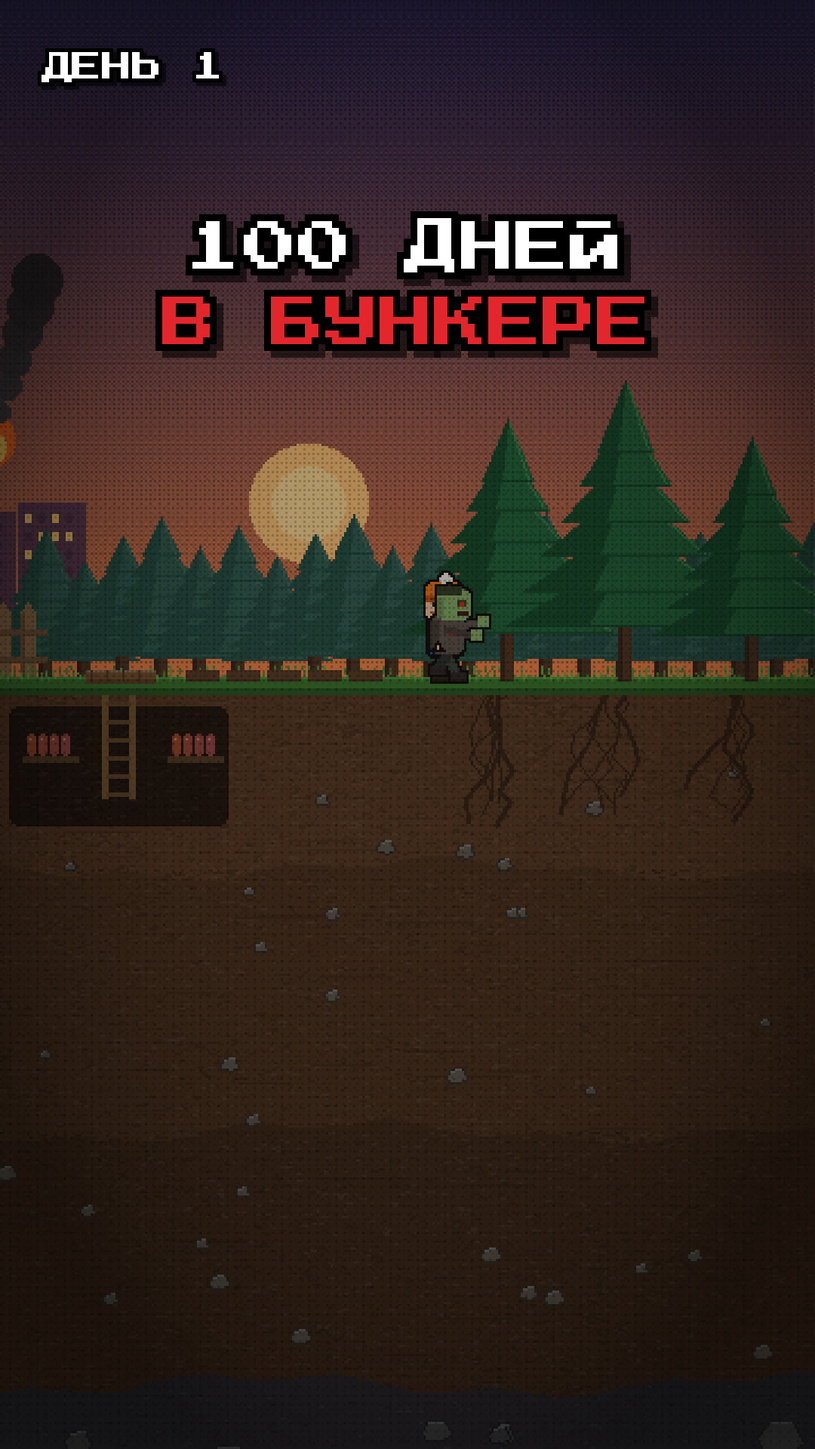
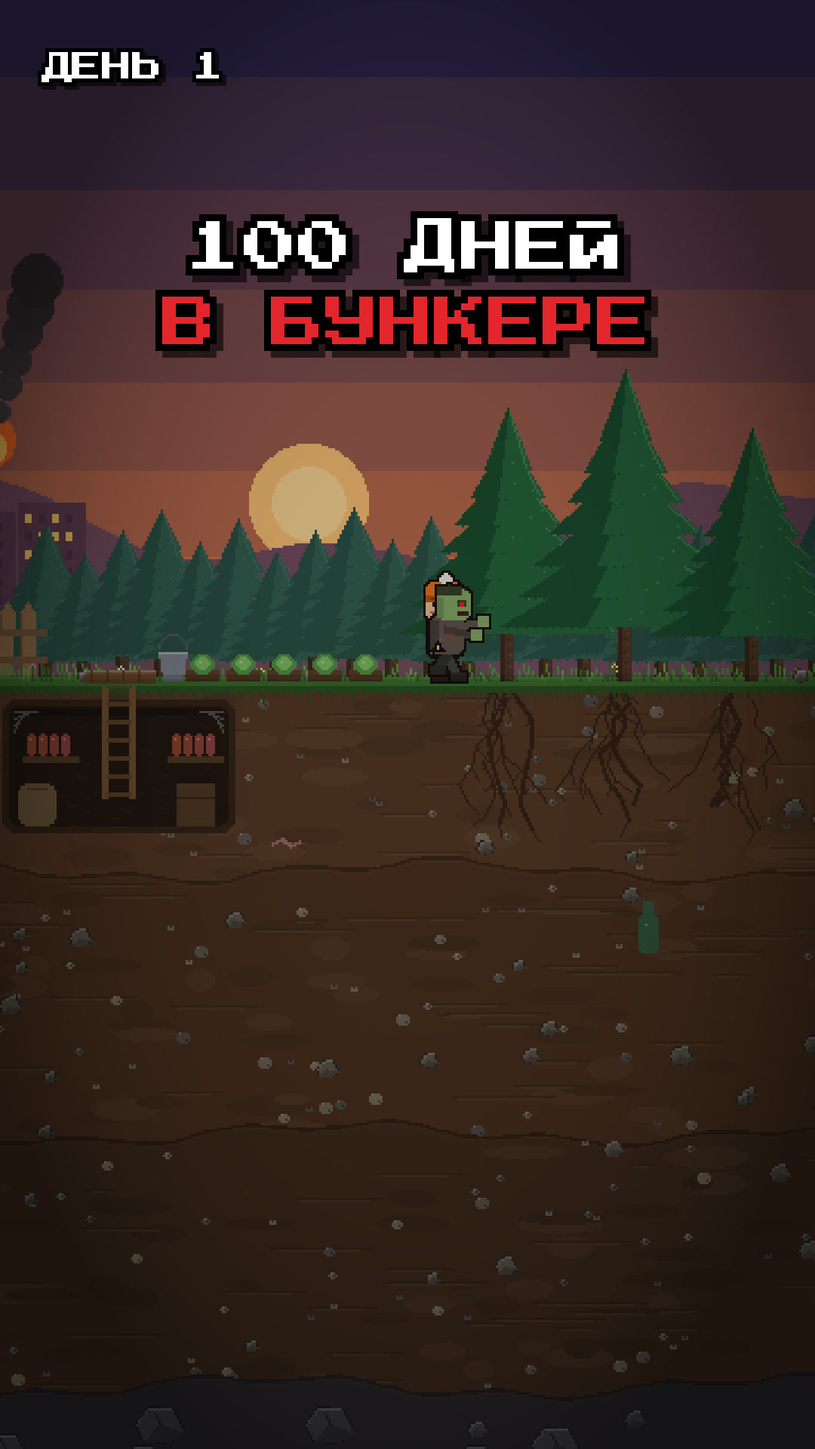
Zombi bunker: detail pass (soil, rooms, props, house, sky)
Claude-Session: https://claude.ai/code/session_012AJnV3FoB4MYQ4cLJ3yctW

diff --git a/tiktok/zombi/bunker/scene.py b/tiktok/zombi/bunker/scene.py
@@ -204,23 +204,34 @@ def noise_dots(d, box, cols, n, seed, size=1):
 
 def pine(d, x, base, h, col=(40, 104, 62), dark=(28, 80, 48), light=(66, 136, 80), snow=False):
     d.rectangle([x - 3, base - h // 3, x + 2, base], fill=(84, 58, 40))
-    d.rectangle([x - 3, base - h // 3, x - 2, base], fill=(64, 44, 30))
-    tiers = 6
+    d.rectangle([x - 3, base - h // 3, x - 2, base], fill=(62, 42, 28))
+    for yy in range(base - h // 3 + 3, base, 5):                         # кора
+        d.point((x, yy), fill=(64, 44, 30)); d.point((x + 1, yy + 2), fill=(104, 74, 50))
+    tiers = 7
     for i in range(tiers):
-        ty = base - h // 5 - i * h // 8
-        w = (tiers - i) * h // 15 + 4
+        ty = base - h // 5 - i * h // 9
+        w = (tiers - i) * h // 17 + 4
         th = h // 4
         d.polygon([(x, ty - th), (x - w, ty), (x + w, ty)], fill=col)
         d.polygon([(x, ty - th), (x - w, ty), (x - w // 3, ty)], fill=dark)
         d.line([(x + 1, ty - th + 2), (x + w - 2, ty - 1)], fill=light)
-        d.line([(x - w + 1, ty), (x + w - 1, ty)], fill=dark)
+        for k in range(-w + 3, w - 2, 4):                              # зубчатый низ яруса
+            d.point((x + k, ty + 1), fill=dark if k < 0 else col)
+        for k in range(2):                                             # блики хвои
+            px = x + 2 + (i * 7 + k * 5) % max(3, w - 3)
+            d.point((px, ty - 3 - k * 3), fill=light)
 
 
 def rock(d, x, y, s, base=(92, 88, 96)):
     pts = [(x, y + s * 0.4), (x + s * 0.3, y), (x + s * 0.8, y + s * 0.05), (x + s, y + s * 0.5),
            (x + s * 0.7, y + s * 0.75), (x + s * 0.2, y + s * 0.72)]
-    d.polygon(pts, fill=base, outline=lerp(base, (0, 0, 0), 0.45))
-    d.line([(x + s * 0.3, y + 1), (x + s * 0.75, y + s * 0.08)], fill=lerp(base, (255, 255, 255), 0.25))
+    d.polygon(pts, fill=base, outline=lerp(base, (0, 0, 0), 0.5))
+    d.polygon([(x + s * 0.5, y + s * 0.4), (x + s, y + s * 0.5), (x + s * 0.7, y + s * 0.75),
+               (x + s * 0.25, y + s * 0.7)], fill=lerp(base, (0, 0, 0), 0.22))      # тень снизу-справа
+    d.line([(x + s * 0.3, y + 1), (x + s * 0.75, y + s * 0.08)], fill=lerp(base, (255, 255, 255), 0.3))
+    d.line([(x + 1, y + s * 0.4), (x + s * 0.3, y + 1)], fill=lerp(base, (255, 255, 255), 0.18))
+    if s > 12:
+        d.line([(x + s * 0.45, y + s * 0.15), (x + s * 0.55, y + s * 0.4)], fill=lerp(base, (0, 0, 0), 0.4))
 
 
 _ST = {}
@@ -235,28 +246,70 @@ def static_layer():
 def _static():
     im = Image.new("RGB", (BW, BH))
     d = ImageDraw.Draw(im)
-    layers = [(GY, (114, 76, 48)), (GY + 84, (100, 66, 42)), (GY + 200, (86, 58, 38)), (ROCK_Y, (62, 58, 64))]
+    layers = [(GY, (116, 78, 50)), (GY + 84, (102, 68, 44)), (GY + 200, (88, 60, 40)), (ROCK_Y, (62, 58, 64))]
     r = random.Random(7)
     for i, (y, c) in enumerate(layers):
         y1 = layers[i + 1][0] if i + 1 < len(layers) else BH
-        # волнистая граница слоя
-        pts = [(0, BH)] + [(x, y + 4 * math.sin(x / 37 + i) + 2 * math.sin(x / 11 + i * 2)) for x in range(0, BW + 6, 6)] + [(BW, BH)]
-        d.polygon(pts, fill=c)
-        noise_dots(d, (0, y, BW, y1 + 6), [lerp(c, (0, 0, 0), 0.1)], 500, i, size=4)   # редкие комочки, без «шума»
-        for _ in range(26):                   # горизонтальные прожилки
-            sx, sy = r.randrange(BW), r.randrange(y + 4, y1)
-            d.line([(sx, sy), (sx + r.randrange(10, 40), sy)], fill=lerp(c, (0, 0, 0), 0.12))
-    for _ in range(120):
-        rock(d, r.randrange(-8, BW), r.randrange(ROCK_Y + 6, BH), r.randrange(8, 22), (86 + r.randrange(14),) * 2 + (94,))
-    for _ in range(40):
-        rock(d, r.randrange(0, BW), r.randrange(GY + 40, ROCK_Y - 16), r.randrange(5, 10), (126, 114, 102))
-    for x in (400, 452, 504):                # корни под деревьями
-        for k in range(6):
+        line = [(x, y + 4 * math.sin(x / 37 + i) + 2 * math.sin(x / 11 + i * 2)) for x in range(0, BW + 6, 6)]
+        d.polygon([(0, BH)] + line + [(BW, BH)], fill=c)
+        if i:
+            d.line(line, fill=lerp(c, (0, 0, 0), 0.22), width=2)
+            d.line([(x, yy + 2) for x, yy in line], fill=lerp(layers[i - 1][1], c, 0.5))
+        if i < 3:
+            for _ in range(70):                       # комья земли чуть другого оттенка
+                x, yy = r.randrange(-20, BW), r.randrange(y + 6, y1)
+                w, h = r.randrange(12, 40), r.randrange(4, 10)
+                col = lerp(c, (0, 0, 0), 0.07) if r.random() < 0.6 else lerp(c, (255, 226, 190), 0.06)
+                d.ellipse([x, yy, x + w, yy + h], fill=col)
+            for _ in range(40):                       # тонкие пласты
+                sx, sy = r.randrange(BW), r.randrange(y + 6, y1)
+                ln = r.randrange(14, 54)
+                d.line([(sx, sy), (sx + ln, sy)], fill=lerp(c, (0, 0, 0), 0.13))
+                d.line([(sx + 3, sy + 1), (sx + ln - 6, sy + 1)], fill=lerp(c, (255, 255, 255), 0.07))
+            for _ in range(80):                       # камешки с бликом и тенью
+                x, yy = r.randrange(BW), r.randrange(y + 4, y1)
+                sz = r.choice((2, 2, 3, 3, 4, 5))
+                base = r.choice(((152, 138, 122), (128, 118, 108), (170, 150, 120), (110, 104, 100)))
+                d.ellipse([x, yy, x + sz, yy + sz * 0.8], fill=base)
+                d.point((x + 1, yy), fill=lerp(base, (255, 255, 255), 0.35))
+                d.point((x + sz - 1, yy + sz * 0.8 - 1), fill=lerp(base, (0, 0, 0), 0.4))
+    for _ in range(46):                               # крупные камни повыше
+        rock(d, r.randrange(0, BW), r.randrange(GY + 40, ROCK_Y - 16), r.randrange(6, 12), (128, 116, 104))
+    for _ in range(130):                              # валуны в скале
+        g = 84 + r.randrange(18)
+        rock(d, r.randrange(-8, BW), r.randrange(ROCK_Y + 6, BH), r.randrange(8, 24), (g, g - 2, g + 6))
+    for _ in range(14):                               # трещины в скале
+        x, yy = r.randrange(BW), r.randrange(ROCK_Y + 20, BH)
+        pts = [(x, yy)]
+        for _ in range(4):
+            x += r.randint(-6, 6); yy += r.randint(4, 9)
+            pts.append((x, yy))
+        d.line(pts, fill=(40, 38, 44))
+    for x in (400, 452, 504, 30, 90):                 # корни с мелкими отростками
+        for k in range(6 if x > 300 else 3):
             pts, px, py = [(x, GY)], x, GY
-            for _ in range(7):
+            for j in range(7):
                 px += r.randint(-7, 7); py += r.randint(5, 11)
                 pts.append((px, py))
+                if r.random() < 0.5:
+                    d.line([(px, py), (px + r.randint(-6, 6), py + r.randint(3, 7))], fill=(80, 54, 36))
             d.line(pts, fill=(74, 48, 32), width=2 if k < 2 else 1)
+    # закопанные мелочи: кость, бутылка, ржавая банка, червяк, окаменелость
+    d.line([(52, 540), (70, 534)], fill=(226, 218, 196), width=3)
+    for ex, ey in ((50, 539), (52, 543), (70, 532), (72, 536)):
+        d.ellipse([ex - 2, ey - 2, ex + 2, ey + 2], fill=(226, 218, 196))
+    d.rounded_rectangle([462, 404, 470, 420], 2, fill=(70, 120, 84)); d.rectangle([464, 398, 468, 404], fill=(70, 120, 84))
+    d.point((465, 408), fill=(150, 200, 160))
+    d.rectangle([30, 352, 40, 360], fill=(140, 82, 52)); d.line([(30, 352), (40, 352)], fill=(176, 120, 80))
+    d.line([(300, 372), (304, 370), (308, 373), (312, 371)], fill=(214, 140, 140), width=2)
+    for k in range(18):                               # аммонит
+        a = k * 0.55
+        rr = 1 + k * 0.45
+        d.point((440 + rr * math.cos(a), 720 + rr * math.sin(a)), fill=(150, 144, 136))
+    d.rectangle([0, GY, BW, GY + 2], fill=(80, 146, 60))
+    d.rectangle([0, GY + 3, BW, GY + 5], fill=(58, 110, 46))
+    for x in range(0, BW, 5):                         # дёрн свисает
+        d.line([(x, GY + 5), (x + 1, GY + 7 + (x * 13) % 4)], fill=(70, 92, 44))
     return im
 
 
@@ -287,17 +340,26 @@ def sky(d, kind, t):
         d.ellipse([414, 62, 438, 86], fill=(255, 250, 220))
         for i, (cx, cy, w) in enumerate(((80, 104, 70), (300, 66, 52), (220, 140, 44), (480, 150, 60))):
             x = (cx + t * (3 + i * 1.3)) % (BW + 120) - 60
-            col, sh = (242, 246, 250), (210, 222, 236)
+            col, sh, hl = (238, 243, 248), (196, 210, 228), (255, 255, 255)
             d.ellipse([x, cy, x + w, cy + 16], fill=sh)
             d.ellipse([x + w * 0.2, cy - 10, x + w * 0.65, cy + 12], fill=col)
             d.ellipse([x + w * 0.45, cy - 6, x + w * 0.85, cy + 10], fill=col)
-            d.rectangle([x + 4, cy + 8, x + w - 4, cy + 14], fill=sh)
+            d.rectangle([x + 4, cy + 9, x + w - 4, cy + 15], fill=sh)
+            d.arc([x + w * 0.2, cy - 10, x + w * 0.65, cy + 12], 200, 300, fill=hl)
+        for i in range(3):                                              # птицы
+            bx = (60 + i * 26 + t * 14) % (BW + 80) - 40
+            by = 120 + i * 9 + 3 * math.sin(t * 2 + i)
+            wing = 2 if (t * 4 + i) % 1 < 0.5 else -1
+            d.line([(bx - 3, by - wing), (bx, by), (bx + 3, by - wing)], fill=(50, 56, 70))
     else:
         d.ellipse([290, 196, 342, 248], fill=(255, 196, 120))
         d.ellipse([300, 206, 332, 238], fill=(255, 218, 150))
 
 
 def city(d, kind, burning, t):
+    hill = {"day": (150, 176, 196), "night": (20, 26, 46), "evening": (120, 80, 100)}[kind]
+    pts = [(0, GY)] + [(x, GY - 70 - 18 * math.sin(x / 70) - 8 * math.sin(x / 23)) for x in range(0, BW + 10, 10)] + [(BW, GY)]
+    d.polygon(pts, fill=hill)                                           # холмы вдали
     col = {"day": (138, 158, 182), "night": (24, 28, 48), "evening": (100, 64, 86)}[kind]
     r = random.Random(11)
     x = 0
@@ -330,37 +392,71 @@ def city(d, kind, burning, t):
 def house(d, kind):
     wall, roof = (132, 94, 62), (100, 54, 46)
     d.rectangle([8, 224, 124, GY], fill=wall)
-    for y in range(226, GY, 7):
-        d.line([(8, y), (124, y)], fill=(108, 76, 50))
-    d.rectangle([92, 176, 104, 210], fill=(110, 70, 56)); d.rectangle([90, 172, 106, 177], fill=(80, 50, 40))
+    for j, y in enumerate(range(226, GY, 7)):                           # доски обшивки
+        d.line([(8, y), (124, y)], fill=(104, 74, 50))
+        d.line([(8, y + 1), (124, y + 1)], fill=(150, 110, 74))
+        for x in range(14 + (j % 3) * 9, 124, 31):
+            d.point((x, y + 3), fill=(96, 68, 44))
+    d.rectangle([8, 224, 12, GY], fill=(112, 80, 54)); d.rectangle([120, 224, 124, GY], fill=(112, 80, 54))
+    d.rectangle([8, 224, 124, 229], fill=(70, 50, 36))                   # тень под крышей
+    d.rectangle([92, 176, 104, 212], fill=(120, 72, 58))                 # кирпичная труба
+    for y in range(178, 212, 4):
+        d.line([(92, y), (104, y)], fill=(90, 54, 44))
+        d.point((96 + (y // 4 % 2) * 4, y + 2), fill=(90, 54, 44))
+    d.rectangle([90, 172, 106, 177], fill=(80, 50, 40))
     d.polygon([(0, 228), (66, 176), (132, 228)], fill=roof)
-    for k in range(5):
-        y = 188 + k * 9
+    for k in range(7):                                                   # черепица рядами
+        y = 184 + k * 6
         hw = (y - 176) * 66 / 52
-        d.line([(66 - hw, y), (66 + hw, y)], fill=(80, 42, 36))
-    d.polygon([(80, 192), (102, 212), (88, 212)], fill=(30, 22, 26))         # дыра в крыше
+        d.line([(66 - hw, y), (66 + hw, y)], fill=(78, 40, 34))
+        for x in range(int(66 - hw) + (k % 2) * 4, int(66 + hw), 8):
+            d.line([(x, y - 5), (x, y)], fill=(86, 46, 38))
+            d.point((x + 2, y - 4), fill=(126, 72, 60))
+    d.line([(0, 228), (66, 176), (132, 228)], fill=(140, 84, 66), width=2)
+    for mx, my in ((24, 216), (30, 214), (100, 214), (44, 204)):         # мох
+        d.ellipse([mx, my, mx + 6, my + 3], fill=(84, 112, 58))
+    d.polygon([(80, 192), (102, 212), (88, 212)], fill=(30, 22, 26))      # дыра в крыше
+    d.line([(84, 196), (96, 214)], fill=(110, 74, 50), width=2)
     win = (255, 210, 120) if kind == "evening" else (44, 54, 66)
-    d.rectangle([22, 242, 48, 268], fill=(84, 60, 40)); d.rectangle([25, 245, 45, 265], fill=win)
-    d.line([(25, 245), (45, 265)], fill=(84, 60, 40), width=2); d.line([(45, 245), (25, 265)], fill=(84, 60, 40), width=2)
-    d.rectangle([74, 250, 100, GY], fill=(72, 48, 34)); d.rectangle([94, 274, 96, 276], fill=(200, 170, 80))
-    for i, x in enumerate(range(134, 200, 11)):                              # забор
+    d.rectangle([20, 240, 50, 270], fill=(84, 60, 40)); d.rectangle([24, 244, 46, 266], fill=win)
+    d.line([(35, 244), (35, 266)], fill=(84, 60, 40)); d.line([(24, 255), (46, 255)], fill=(84, 60, 40))
+    if kind != "evening":
+        d.line([(26, 246), (32, 252)], fill=(90, 110, 130))
+    d.rectangle([12, 240, 19, 270], fill=(70, 96, 70))                   # ставня
+    d.polygon([(51, 242), (58, 246), (58, 276), (51, 272)], fill=(70, 96, 70))   # покосившаяся ставня
+    for x0, y0, x1, y1 in ((22, 250, 48, 256), (22, 258, 48, 262)):      # заколочено
+        d.line([(x0, y0), (x1, y1)], fill=(150, 110, 70), width=2)
+    d.rectangle([72, 246, 102, GY], fill=(58, 40, 28))
+    d.rectangle([75, 250, 99, GY], fill=(78, 52, 36))
+    for x in range(75, 99, 6):
+        d.line([(x, 250), (x, GY)], fill=(64, 42, 30))
+    d.rectangle([94, 274, 96, 277], fill=(200, 170, 80))
+    d.rectangle([68, GY - 4, 106, GY], fill=(110, 80, 54)); d.line([(68, GY - 4), (106, GY - 4)], fill=(140, 104, 70))
+    d.rounded_rectangle([110, 278, 124, GY], 2, fill=(96, 70, 48))      # бочка
+    d.line([(110, 284), (124, 284)], fill=(60, 60, 64)); d.line([(110, 294), (124, 294)], fill=(60, 60, 64))
+    for i, x in enumerate(range(134, 200, 11)):                          # забор
         h = 30 if i != 3 else 18
-        d.rectangle([x, GY - h, x + 6, GY], fill=(152, 114, 76))
-        d.rectangle([x, GY - h, x + 1, GY], fill=(124, 92, 60))
-        d.polygon([(x, GY - h), (x + 3, GY - h - 4), (x + 6, GY - h)], fill=(152, 114, 76))
+        lean = 2 if i == 4 else 0
+        d.polygon([(x, GY), (x + lean, GY - h), (x + 6 + lean, GY - h), (x + 6, GY)], fill=(152, 114, 76))
+        d.line([(x, GY), (x + lean, GY - h)], fill=(118, 88, 58))
+        d.polygon([(x + lean, GY - h), (x + 3 + lean, GY - h - 4), (x + 6 + lean, GY - h)], fill=(152, 114, 76))
+        d.point((x + 3, GY - h + 8), fill=(80, 60, 40))
     d.rectangle([130, GY - 22, 200, GY - 20], fill=(124, 90, 60))
     d.rectangle([130, GY - 10, 200, GY - 8], fill=(124, 90, 60))
 
 
 def grass(d, kind, t, x0=0, x1=BW):
-    g1, g2 = (78, 146, 60), (56, 112, 46)
-    d.rectangle([x0, GY - 1, x1, GY + 3], fill=g1)
-    d.rectangle([x0, GY + 4, x1, GY + 6], fill=g2)
+    g1, g2 = (80, 148, 60), (58, 112, 46)
+    d.rectangle([x0, GY - 1, x1, GY + 2], fill=g1)
     r = random.Random(21)
-    for x in range(x0, x1, 3):
-        h = r.randrange(2, 7)
+    for x in range(x0, x1, 2):
+        h = r.randrange(2, 8)
         sw = math.sin(t * 1.5 + x * 0.07) * 1.2
-        d.line([(x, GY), (x + sw, GY - h)], fill=g1 if r.random() < 0.6 else (100, 170, 70))
+        col = g1 if r.random() < 0.5 else (104, 172, 72) if r.random() < 0.5 else g2
+        d.line([(x, GY), (x + sw, GY - h)], fill=col)
+        if r.random() < 0.025:                                          # цветы
+            fc = r.choice(((240, 220, 90), (236, 236, 236), (200, 120, 200)))
+            d.point([(x + sw, GY - h - 1), (x + sw - 1, GY - h), (x + sw + 1, GY - h)], fill=fc)
 
 
 def room(d, box, finished, depth=1.0, side="right", seed=0):
@@ -371,24 +467,38 @@ def room(d, box, finished, depth=1.0, side="right", seed=0):
         x1 = x0 + int((x1 - x0) * min(1, depth))
     elif side == "down":
         y1 = y0 + int((y1 - y0) * min(1, depth))
+    d.rounded_rectangle([x0 - 3, y0 - 3, x1 + 3, y1 + 3], 6, fill=(74, 50, 34))      # тень вокруг выемки
     d.rounded_rectangle([x0, y0, x1, y1], 4, fill=(48, 33, 25))
-    noise_dots(d, (x0 + 2, y0 + 2, x1 - 1, y1 - 1), [(54, 38, 29)],
-               (x1 - x0) * (y1 - y0) // 90, seed, size=3)
+    r = random.Random(seed)
+    for _ in range((x1 - x0) * (y1 - y0) // 160):                       # следы лопаты на стенах
+        x, y = r.randrange(x0 + 2, max(x0 + 3, x1 - 6)), r.randrange(y0 + 2, max(y0 + 3, y1 - 3))
+        d.line([(x, y), (x + 4, y + 1)], fill=(58, 41, 31))
+    d.rectangle([x0 + 2, y0 + 1, x1 - 2, y0 + 3], fill=(38, 26, 20))
     if finished:
         for i, x in enumerate(range(x0 + 2, x1 - 4, 10)):
-            sh = (118, 84, 54) if i % 3 else (110, 78, 50)
+            sh = ((118, 84, 54), (110, 78, 50), (124, 90, 58))[(i * 7 + seed) % 3]
             d.rectangle([x, y0 + 6, x + 9, y1 - 6], fill=sh)
-            d.line([(x, y0 + 6), (x, y1 - 6)], fill=(82, 56, 36))
-            for gy in range(y0 + 12, y1 - 8, 9):                             # волокна
-                d.point((x + 3 + (gy * 7 + i) % 5, gy), fill=(100, 70, 44))
-            d.point((x + 4, y0 + 9), fill=(60, 50, 44)); d.point((x + 4, y1 - 10), fill=(60, 50, 44))
-        d.rectangle([x0, y0, x1, y0 + 5], fill=(96, 66, 42))                   # балка
-        d.line([(x0, y0 + 5), (x1, y0 + 5)], fill=(66, 44, 28))
-        for px in (x0 + 2, x1 - 7):                                          # стойки
+            d.line([(x, y0 + 6), (x, y1 - 6)], fill=(80, 54, 34))
+            d.line([(x + 1, y0 + 6), (x + 1, y1 - 6)], fill=lerp(sh, (255, 255, 255), 0.12))
+            for gy in range(y0 + 12, y1 - 8, 7):                         # волокна
+                d.line([(x + 3 + (gy * 7 + i) % 4, gy), (x + 3 + (gy * 7 + i) % 4, gy + 3)], fill=lerp(sh, (0, 0, 0), 0.12))
+            if (i * 5 + seed) % 4 == 0:                                  # сучок
+                ky = y0 + 14 + (i * 11) % max(1, (y1 - y0 - 26))
+                d.ellipse([x + 3, ky, x + 7, ky + 3], fill=lerp(sh, (0, 0, 0), 0.3))
+            d.point((x + 4, y0 + 9), fill=(56, 48, 44)); d.point((x + 4, y1 - 10), fill=(56, 48, 44))
+        d.rectangle([x0, y0 + 6, x1, y0 + 9], fill=(70, 48, 32))           # тень под балкой
+        d.rectangle([x0, y0, x1, y0 + 5], fill=(98, 68, 44))               # балка
+        d.line([(x0, y0 + 1), (x1, y0 + 1)], fill=(126, 90, 58))
+        for px in (x0 + 2, x1 - 7):                                       # стойки с подкосами
             d.rectangle([px, y0, px + 5, y1], fill=(104, 72, 46))
             d.line([(px + 5, y0), (px + 5, y1)], fill=(70, 48, 30))
-        d.rectangle([x0, y1 - 5, x1, y1], fill=(94, 64, 40))                   # пол
-        d.line([(x0, y1 - 5), (x1, y1 - 5)], fill=(128, 92, 58))
+            d.line([(px + 1, y0), (px + 1, y1)], fill=(130, 94, 60))
+        d.line([(x0 + 8, y0 + 12), (x0 + 16, y0 + 5)], fill=(96, 66, 42), width=2)
+        d.line([(x1 - 8, y0 + 12), (x1 - 16, y0 + 5)], fill=(96, 66, 42), width=2)
+        d.rectangle([x0, y1 - 5, x1, y1], fill=(94, 64, 40))               # пол
+        d.line([(x0, y1 - 5), (x1, y1 - 5)], fill=(130, 94, 60))
+        for x in range(x0 + 6, x1, 23):
+            d.line([(x, y1 - 4), (x, y1)], fill=(70, 48, 30))
 
 
 def ladder(d, x, y0, y1):
@@ -462,6 +572,12 @@ def world(n, p, t):
         for k in range(4):
             d.rounded_rectangle([sx + k * 5, 324, sx + 3 + k * 5, 333], 1, fill=(196, 92, 60 + k * 10))
             d.point((sx + 1 + k * 5, 326), fill=(240, 180, 150))
+    d.rounded_rectangle([188, 346, 204, 364], 4, fill=(150, 120, 80))         # мешок картошки
+    d.line([(192, 348), (200, 348)], fill=(110, 86, 56))
+    for cx, cy, sgn in ((186, 314, 1), (278, 314, -1)):                     # паутина
+        for k in range(4):
+            d.line([(cx, cy + k * 3), (cx + sgn * (10 - k * 2), cy)], fill=(120, 110, 104))
+    d.rectangle([258, 346, 274, 364], fill=(110, 80, 50)); d.line([(258, 352), (274, 352)], fill=(80, 56, 36))   # ящик
     dig1 = 0 if n < 4 else (p if n == 4 else 1)
     if dig1:
         room(d, SHAFT1, False, dig1 * 2.5, side="down", seed=2)
@@ -514,6 +630,38 @@ def world(n, p, t):
             d.rectangle([197, 438, 200, 446], fill=(240, 236, 220))
             fl = int(2 + math.sin(t * 13) * 0.8)
             d.ellipse([197, 432 - fl, 200, 437], fill=(255, 200, 80))
+    if n >= 5:
+        d.rectangle([150, 410, 168, 430], fill=(232, 226, 210))              # календарь: зачёркнутые дни
+        d.rectangle([150, 410, 168, 414], fill=(190, 50, 50))
+        crosses = min(20, {5: 3, 6: 4, 7: 5}.get(n, 6 + n))
+        for c in range(crosses):
+            cx, cy = 151 + (c % 5) * 3.5, 416 + (c // 5) * 3.5
+            d.line([(cx, cy), (cx + 2, cy + 2)], fill=(200, 40, 40)); d.line([(cx + 2, cy), (cx, cy + 2)], fill=(200, 40, 40))
+        d.rectangle([174, 414, 186, 426], fill=(96, 70, 46)); d.rectangle([176, 416, 184, 424], fill=(150, 170, 190))   # фото
+        d.point([(178, 419), (181, 419)], fill=(220, 190, 160)); d.line([(176, 424), (184, 422)], fill=(90, 120, 80))
+        d.rounded_rectangle([120, 446, 129, 458], 2, fill=(92, 70, 52)); d.rectangle([121, 450, 128, 452], fill=(74, 54, 40))  # рюкзак
+        d.rectangle([134, 449, 186, 452], fill=(70, 96, 140))                # одеяло
+        for x in range(136, 186, 6):
+            d.rectangle([x, 449, x + 2, 451], fill=(96, 124, 170))
+        d.line([(206, 410), (206, 438)], fill=(140, 96, 54), width=2)        # лопата на стене
+        d.polygon([(203, 438), (209, 438), (210, 446), (202, 446)], fill=(170, 176, 186))
+    if n >= 9 and n < 17:
+        for bx, by in ((372, 570), (380, 560)):                              # ящики
+            d.rectangle([bx, by, bx + 16, 586 if by == 570 else 570], fill=(132, 96, 58))
+            d.line([(bx, by), (bx + 16, 586 if by == 570 else 570)], fill=(100, 70, 42))
+            d.rectangle([bx, by, bx + 16, 586 if by == 570 else 570], outline=(90, 62, 38))
+    if n >= 9:
+        d.line([(272, 538), (292, 538)], fill=(70, 70, 76), width=2)         # кирка и пила на стене
+        d.arc([270, 536, 294, 548], 180, 360, fill=(170, 176, 186), width=2)
+        d.line([(282, 538), (282, 556)], fill=(140, 96, 54), width=2)
+        d.polygon([(250, 540), (264, 540), (264, 546), (250, 550)], fill=(176, 182, 192))
+        d.rectangle([264, 539, 268, 547], fill=(150, 96, 54))
+        d.rectangle([278, 572, 288, 586], fill=(160, 40, 34)); d.rectangle([280, 569, 284, 572], fill=(60, 60, 60))   # канистра
+        d.line([(279, 574), (287, 584)], fill=(130, 30, 26))
+    if n >= 18:
+        d.rectangle([196, 458, 282, 461], fill=(150, 60, 50))                # коврик
+        for x in range(198, 282, 6):
+            d.point((x, 459), fill=(220, 180, 90))
     if n >= 9:                                # полка с консервами, печка, труба
         for sy in (426, 444):
             d.rectangle([250, sy, 304, sy + 2], fill=(90, 62, 38))
@@ -582,9 +730,18 @@ def world(n, p, t):
     for i, gx in enumerate(range(262, 350, 18)):       # грядки и кучки земли
         d.rectangle([gx, GY - 4, gx + 14, GY], fill=(94, 64, 42))
         h = 9 * ease(gd * 2 - i * 0.2) if gd else 0
+        if h <= 0.5:                                                         # капуста
+            d.ellipse([gx + 2, GY - 11, gx + 12, GY - 3], fill=(84, 150, 72))
+            d.ellipse([gx + 4, GY - 10, gx + 10, GY - 5], fill=(130, 190, 100))
+            d.point((gx + 6, GY - 8), fill=(170, 220, 140))
         if h > 0.5:
             d.polygon([(gx - 2, GY - 3), (gx + 7, GY - 3 - h), (gx + 16, GY - 3)], fill=(114, 78, 48))
             d.line([(gx + 2, GY - 4 - h * 0.5), (gx + 7, GY - 3 - h)], fill=(134, 96, 62))
+    d.polygon([(250, GY - 12), (262, GY - 12), (260, GY), (252, GY)], fill=(130, 136, 146))   # ведро
+    d.line([(250, GY - 12), (262, GY - 12)], fill=(170, 176, 186))
+    d.arc([250, GY - 20, 262, GY - 8], 180, 360, fill=(90, 92, 100))
+    for sx, sz in ((214, 6), (372, 8), (530, 7)):
+        rock(d, sx, GY - sz * 0.6, sz, (130, 126, 120))
     metal = n > 7 or (n == 7 and p > 0.45)
     hc = (124, 128, 136) if metal else (124, 86, 52)
     d.rectangle([HATCH_X - 14, GY - 4, HATCH_X + 16, GY + 1], fill=hc)

diff --git a/tiktok/zombi/ZOMBI.md b/tiktok/zombi/ZOMBI.md
@@ -11,6 +11,8 @@
 точечным переходом; смена сцен — пиксельное растворение. **PixelLab НЕ использовать** (сказал владелец).
 Отзыв на 3-й тест: фон «с белым шумом, шершавый» → убраны точечный растр, шахматный узор (дизеринг) света
 и неба, густые точки в земле. Земля и небо — чистые ровные заливки.
+Запрос «больше детализации»: слои земли с комьями и камешками, корни, закопанные мелочи, доски с сучками,
+календарь с зачёркнутыми днями, инструменты, черепица, капуста, холмы, облака с тенью, птицы.
 
 ## «100 ДНЕЙ В БУНКЕРЕ» — `bunker/`
 - `script.py` — 20 сцен `(№, "ДЕНЬ N", текст)`, `**…**` — ключевые слова (жёлтым).
